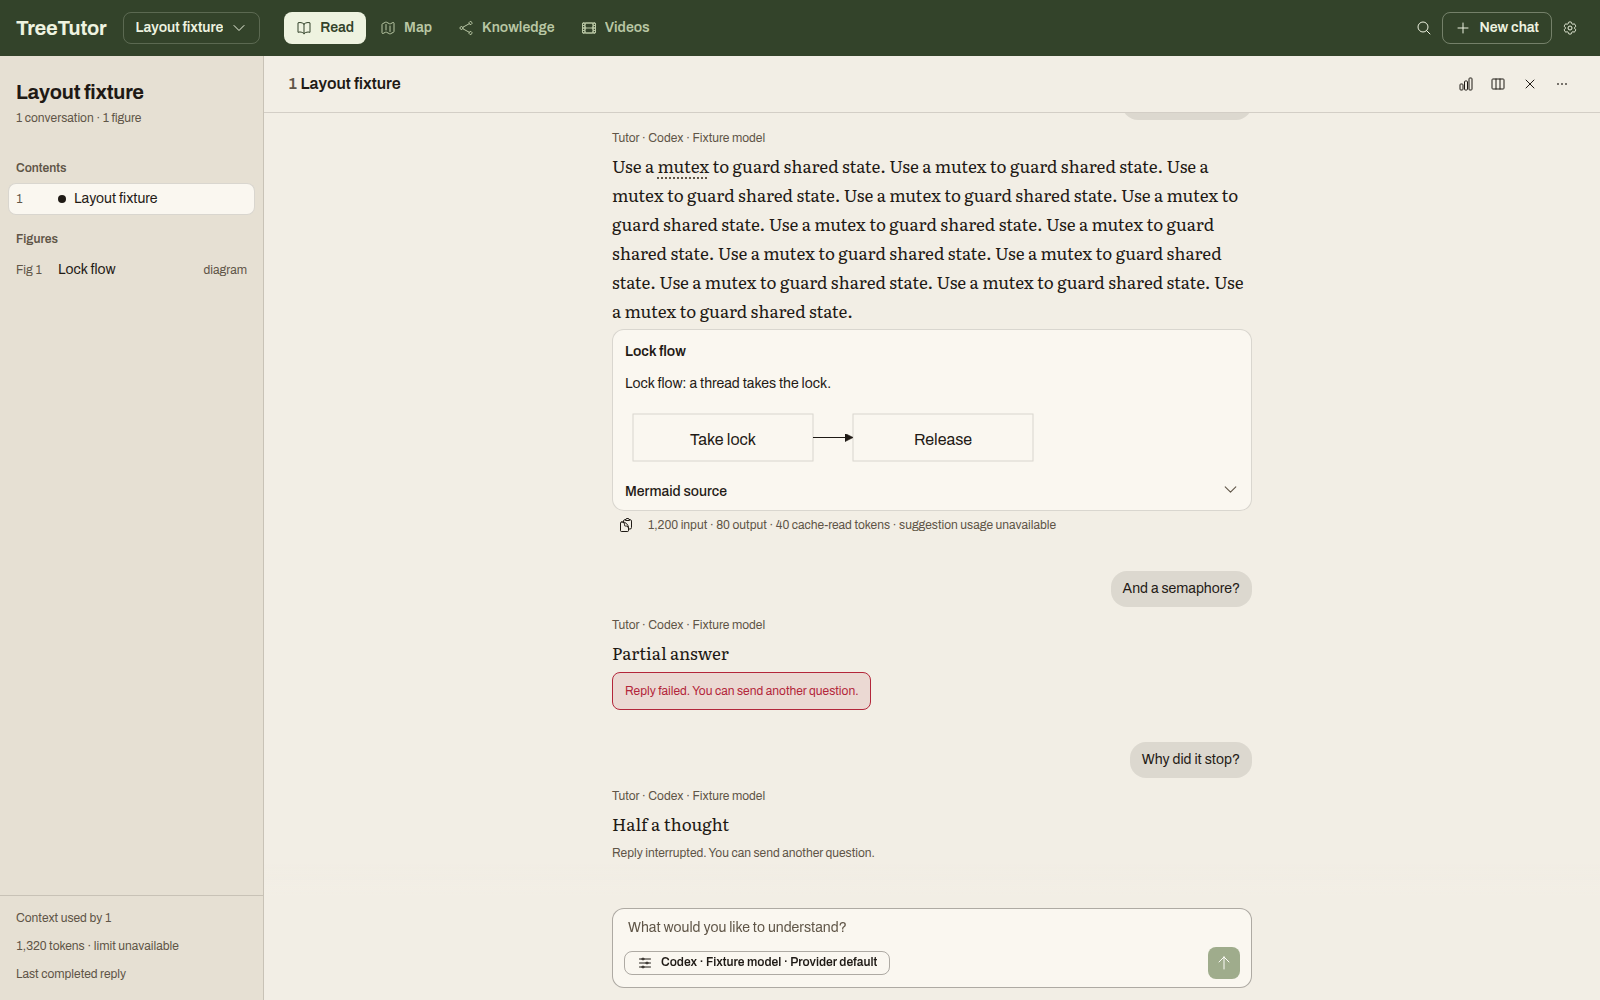
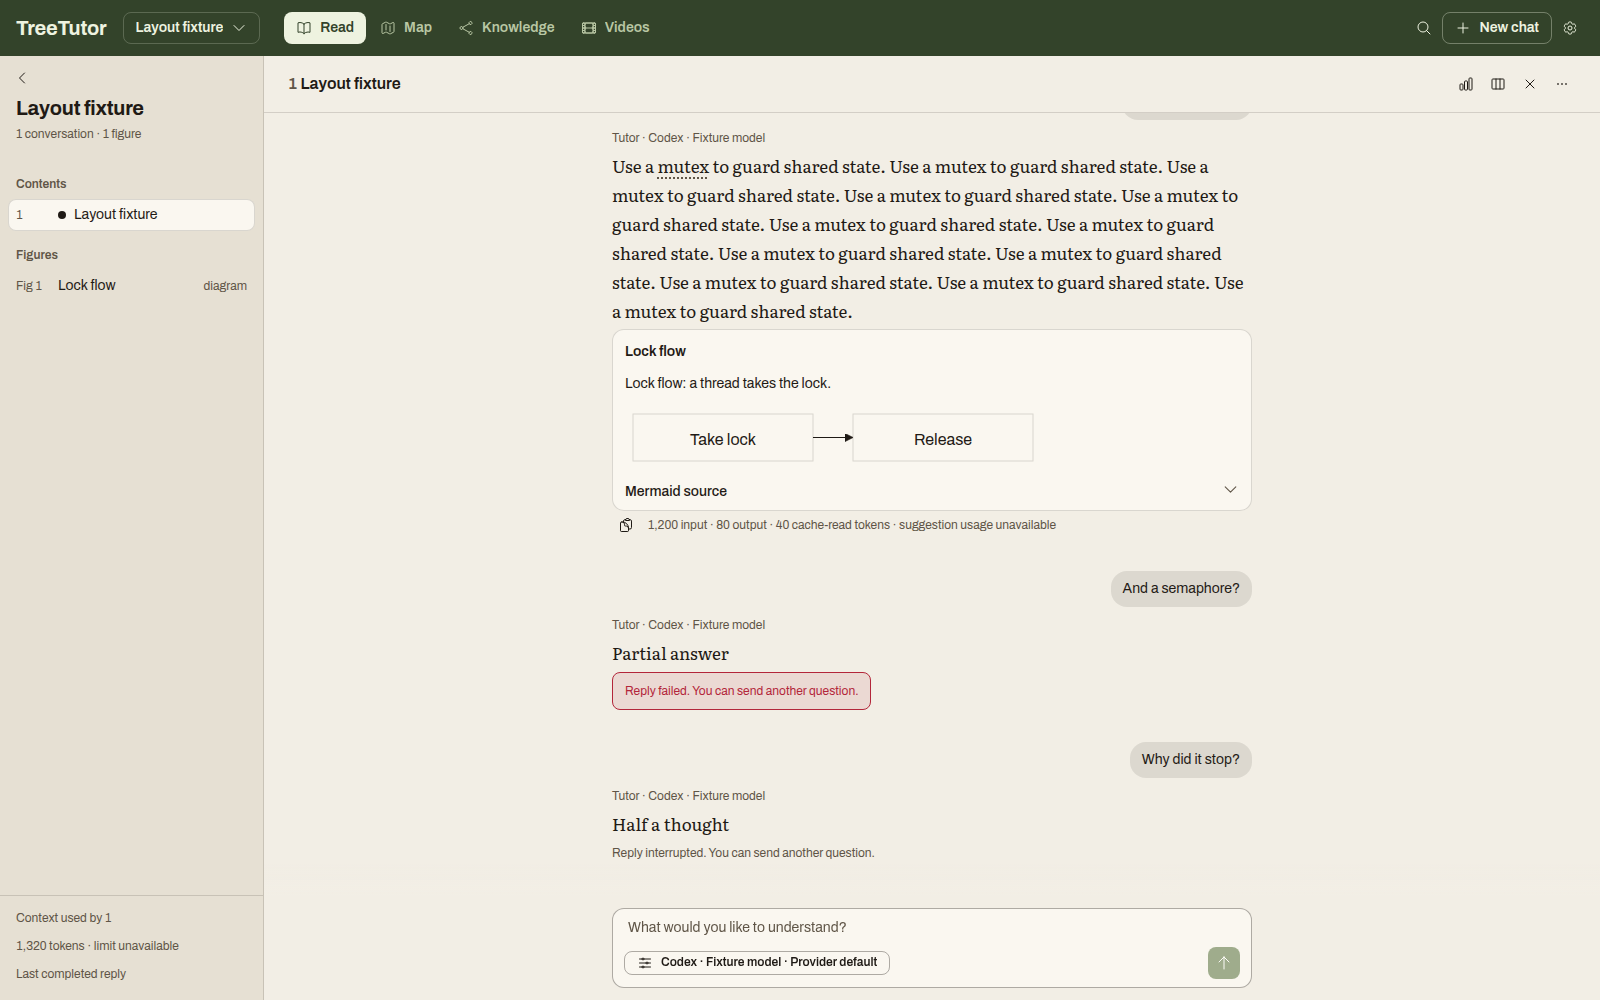
task: TreeTutor-got.10 Collapse the Contents panel to maximize the chat

Changed region(s): [[0.0, 0.062, 0.1562, 0.31]]

diff --git a/src/ChatPage.tsx b/src/ChatPage.tsx
@@ -251,6 +251,13 @@ export default function ChatPage({ appearance, setAppearance, theme, setTheme }:
   const [root, setRoot] = useState<string>();
   const [overview, setOverview] = useState(true);
   const [expanded, setExpanded] = useState(false);
+  const [contentsOpen, setContentsOpen] = useState(() => { try { return localStorage.getItem('treetutor.contents') !== 'collapsed'; } catch { return true; } });
+  // The toggle unmounts with its panel, so focus moves to its counterpart.
+  function toggleContents(open: boolean) {
+    flushSync(() => setContentsOpen(open));
+    document.querySelector<HTMLElement>(open ? '.contents-collapse' : '.contents-reopen')?.focus();
+    try { localStorage.setItem('treetutor.contents', open ? 'open' : 'collapsed'); } catch { /* Preference stays for this session only. */ }
+  }
   const [statsOpen, setStatsOpen] = useState(false);
   const statsPanel = useRef<HTMLDivElement>(null);
   useEffect(() => {
@@ -811,12 +818,12 @@ export default function ChatPage({ appearance, setAppearance, theme, setTheme }:
     viewTab('Knowledge', <ShareIcon />, tab === 'knowledge', () => setTab('knowledge')),
     viewTab('Videos', <FilmIcon />, tab === 'videos', () => setTab('videos')),
   ];
-  const contents = root && state && <Contents root={root} trees={state.trees.filter(t => visibleIds.includes(t.id))} addresses={addresses} previews={previews} current={tree} active={state.active} open={id => { setTab('learning'); void openConversation(id); }} openFigure={(id, artifact) => { setTab('learning'); void openConversation(id, undefined, artifact); }} />;
+  const contents = (collapse?: () => void) => root && state && <Contents collapse={collapse} root={root} trees={state.trees.filter(t => visibleIds.includes(t.id))} addresses={addresses} previews={previews} current={tree} active={state.active} open={id => { setTab('learning'); void openConversation(id); }} openFigure={(id, artifact) => { setTab('learning'); void openConversation(id, undefined, artifact); }} />;
   // Narrow band (mockup Narrow): views, the outline and Settings move into this drawer; any choice inside closes it.
   const narrowDrawer = <Drawer isOpen={drawer} onOpenChange={setDrawer} label="Contents" side="start" width={320} padding={0}>
     <Regions padding={2} header={<DrawerHeader className="drawer-head" title="TreeTutor" onOpenChange={setDrawer} />} content={<LayoutContent padding={0}><VStack gap={0} className="band-drawer" onClick={e => { if ((e.target as Element).closest('button')) setDrawer(false); }}>
       <nav aria-label="Views" className="drawer-views">{views.slice(0, 2)}{viewTab('Library', <RectangleStackIcon />, tab === 'library', () => setTab('library'))}{views.slice(2)}</nav>
-      {contents}
+      {contents()}
       <Button className="view-tab drawer-settings" label="Settings" icon={<Cog6ToothIcon />} variant="ghost" size="sm" onClick={() => openSettings(undefined, undefined, document.querySelector<HTMLElement>('.band-contents'))} />
     </VStack></LayoutContent>} />
   </Drawer>;
@@ -879,7 +886,7 @@ export default function ChatPage({ appearance, setAppearance, theme, setTheme }:
         <Heading level={1} className="sr-only">TreeTutor</Heading>
         {error && <section role="alert" className="failure-banner workspace-failure"><Text>{error}</Text></section>}
         <section className="tree-workspace" data-expanded={expanded && !overview} style={{ '--map-width': `${shownMapWidth}rem` } as CSSProperties}>
-        {!overview && !mobile && contents}
+        {!overview && !mobile && (contentsOpen ? contents(() => toggleContents(false)) : <aside className="contents-rail" aria-label="Learning tree contents"><IconButton className="contents-reopen" label="Show contents" tooltip="Show contents" aria-expanded={false} icon={<ChevronRightIcon />} variant="ghost" size="sm" onClick={() => toggleContents(true)} /></aside>)}
         <section ref={workspace} className="reading-workspace">
         <section id="focused-chat" className="focused-chat" style={{ display: overview && root ? 'none' : 'flex' }} onKeyDown={e => { if (e.key === 'Escape' && !branch && !e.defaultPrevented && !(e.target as Element).closest('[role=menu], video, dialog')) { e.preventDefault(); returnToTree(); } }}>
         {tree ? <>

diff --git a/src/Contents.tsx b/src/Contents.tsx
@@ -2,6 +2,8 @@ import type { CSSProperties } from 'react';
 import { VStack } from '@astryxdesign/core/Layout';
 import { Heading, Text } from '@astryxdesign/core/Text';
 import { Button } from '@astryxdesign/core/Button';
+import { IconButton } from '@astryxdesign/core/IconButton';
+import { ChevronLeftIcon } from '@heroicons/react/24/outline';
 import type { Preview, Summary } from './TreeOverview';
 import type { Artifact } from './artifacts';
 import { conversationAddresses, inkStyle } from './treeList';
@@ -9,9 +11,9 @@ import { conversationContext, type Message } from './turn';
 
 type Current = { id: string; provider: string; model: string | null; messages: Message[]; artifacts: Artifact[] };
 
-export default function Contents({ root, trees, addresses, previews, current, active, open, openFigure }: {
+export default function Contents({ root, trees, addresses, previews, current, active, open, openFigure, collapse }: {
   root: string; trees: Summary[]; addresses: ReturnType<typeof conversationAddresses>; previews: Record<string, Preview>;
-  current?: Current; active: string[]; open: (id: string) => void; openFigure: (conversation: string, artifact: string) => void;
+  current?: Current; active: string[]; open: (id: string) => void; openFigure: (conversation: string, artifact: string) => void; collapse?: () => void;
 }) {
   const byId = new Map(trees.map(t => [t.id, t]));
   const conversations = [...addresses].flatMap(([id, address]) => byId.has(id) ? [{ ...byId.get(id)!, ...address }] : []);
@@ -24,6 +26,7 @@ export default function Contents({ root, trees, addresses, previews, current, ac
   return <aside className="contents" aria-label="Learning tree contents">
     <VStack gap={0} className="contents-panel">
       <VStack gap={1} className="contents-head">
+        {collapse && <IconButton className="contents-collapse" label="Hide contents" tooltip="Hide contents" aria-expanded icon={<ChevronLeftIcon />} variant="ghost" size="sm" onClick={collapse} />}
         <Heading level={2}>{byId.get(root)?.title}</Heading>
         <Text type="supporting" color="secondary">{conversations.length} {conversations.length === 1 ? 'conversation' : 'conversations'} · {figures.length} {figures.length === 1 ? 'figure' : 'figures'}</Text>
       </VStack>

diff --git a/src/layout.ts b/src/layout.ts
@@ -114,6 +114,8 @@ html { view-transition-name: none; }
 .reading-workspace { display: flex; flex: 1; min-width: 0; min-height: 0; }
 .contents { display: flex; flex-direction: column; flex: 0 0 calc(33 * var(--treetutor-module)); width: calc(33 * var(--treetutor-module)); min-height: 0; border-inline-end: thin solid var(--color-border); background: var(--color-background-muted); }
 .contents-panel { flex: 1; min-height: 0; }
+.contents-collapse { align-self: flex-start; margin: calc(-2 * var(--treetutor-module)) 0 0 calc(-1 * var(--treetutor-module)); }
+.contents-rail { flex: none; display: flex; flex-direction: column; align-items: center; padding-block: var(--treetutor-module); border-inline-end: thin solid var(--color-border); background: var(--color-background-muted); }
 .contents-head { flex: none; padding: calc(3 * var(--treetutor-module)) calc(2 * var(--treetutor-module)) calc(2 * var(--treetutor-module)); }
 .contents-head h2 { font-size: 20px; line-height: 1.2; font-weight: 700; letter-spacing: -0.01em; overflow-wrap: anywhere; }
 .contents-scroll { flex: 1; min-height: 0; overflow: auto; padding: 0 var(--treetutor-module) calc(2 * var(--treetutor-module)); }
